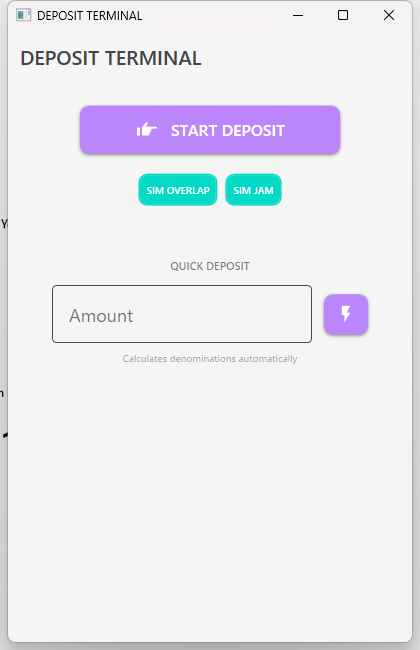
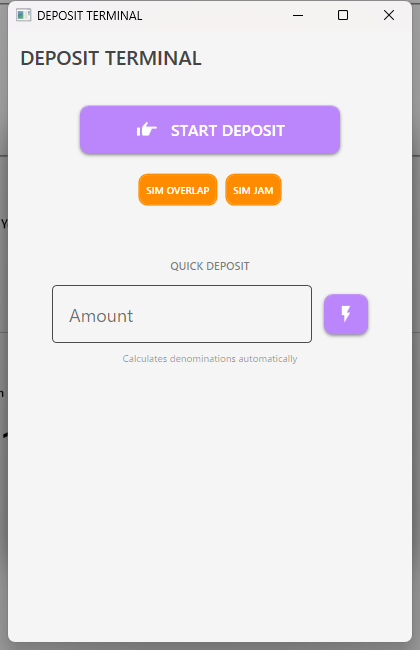
UI: Refine styles and update documentation screenshots
- Tweak control styles and App.xaml for better visual consistency.
- Update documentation screenshots for both Light and Dark themes to reflect recent UI changes.

Changed region(s): [[0.0, 0.0, 1.0, 1.0], [0.3095, 0.2462, 0.681, 0.3385]]

diff --git a/src/CashChangerSimulator.UI.Wpf/Themes/Styles.xaml b/src/CashChangerSimulator.UI.Wpf/Themes/Styles.xaml
@@ -18,7 +18,7 @@
         <Setter Property="Padding" Value="8"/>
         <Setter Property="Effect">
             <Setter.Value>
-                <DropShadowEffect Color="Black" Opacity="{DynamicResource CardShadowOpacity}" BlurRadius="8" ShadowDepth="0.8"/>
+                <DropShadowEffect Color="Black" Opacity="{DynamicResource CardShadowOpacity}" BlurRadius="4" ShadowDepth="0.5"/>
             </Setter.Value>
         </Setter>
         <Style.Triggers>

diff --git a/src/CashChangerSimulator.UI.Wpf/App.xaml.cs b/src/CashChangerSimulator.UI.Wpf/App.xaml.cs
@@ -241,12 +241,16 @@ internal partial class App : Application
             Current.Resources["SecondaryColor"] = secondary;
             Current.Resources["SurfaceColor"] = surface;
             Current.Resources["OnSurfaceColor"] = fg;
-            Current.Resources["CardShadowOpacity"] = isLight ? 0.05 : 0.4;
+            Current.Resources["CardShadowOpacity"] = isActuallyDark ? 0.4 : 0.05; // Drastically reduce light mode shadow
+
+            // Enhanced grounding colors for light mode
+            Current.Resources["MaterialDesign.Brush.Outline"] = new System.Windows.Media.SolidColorBrush(isActuallyDark ? System.Windows.Media.Color.FromRgb(0x44, 0x44, 0x44) : System.Windows.Media.Color.FromRgb(0x88, 0x88, 0x88));
+            Current.Resources["MaterialDesign.Brush.SurfaceVariant"] = new System.Windows.Media.SolidColorBrush(isActuallyDark ? System.Windows.Media.Color.FromRgb(0x22, 0x22, 0x22) : System.Windows.Media.Color.FromRgb(0xE0, 0xE0, 0xE0));
 
             // App specific semantic brushes
             Current.Resources["App.Brush.Foreground"] = fgBrush;
             Current.Resources["App.Brush.Primary"] = primaryBrush;
-            Current.Resources["WarningBrush"] = secondaryBrush;
+            Current.Resources["WarningBrush"] = new System.Windows.Media.SolidColorBrush(isActuallyDark ? System.Windows.Media.Color.FromRgb(0xFF, 0xAB, 0x40) : System.Windows.Media.Color.FromRgb(0xFF, 0x8C, 0x00));
             Current.Resources["TextPrimaryBrush"] = fgBrush;
             Current.Resources["PrimaryBrush"] = primaryBrush;
             Current.Resources["SecondaryBrush"] = secondaryBrush;
